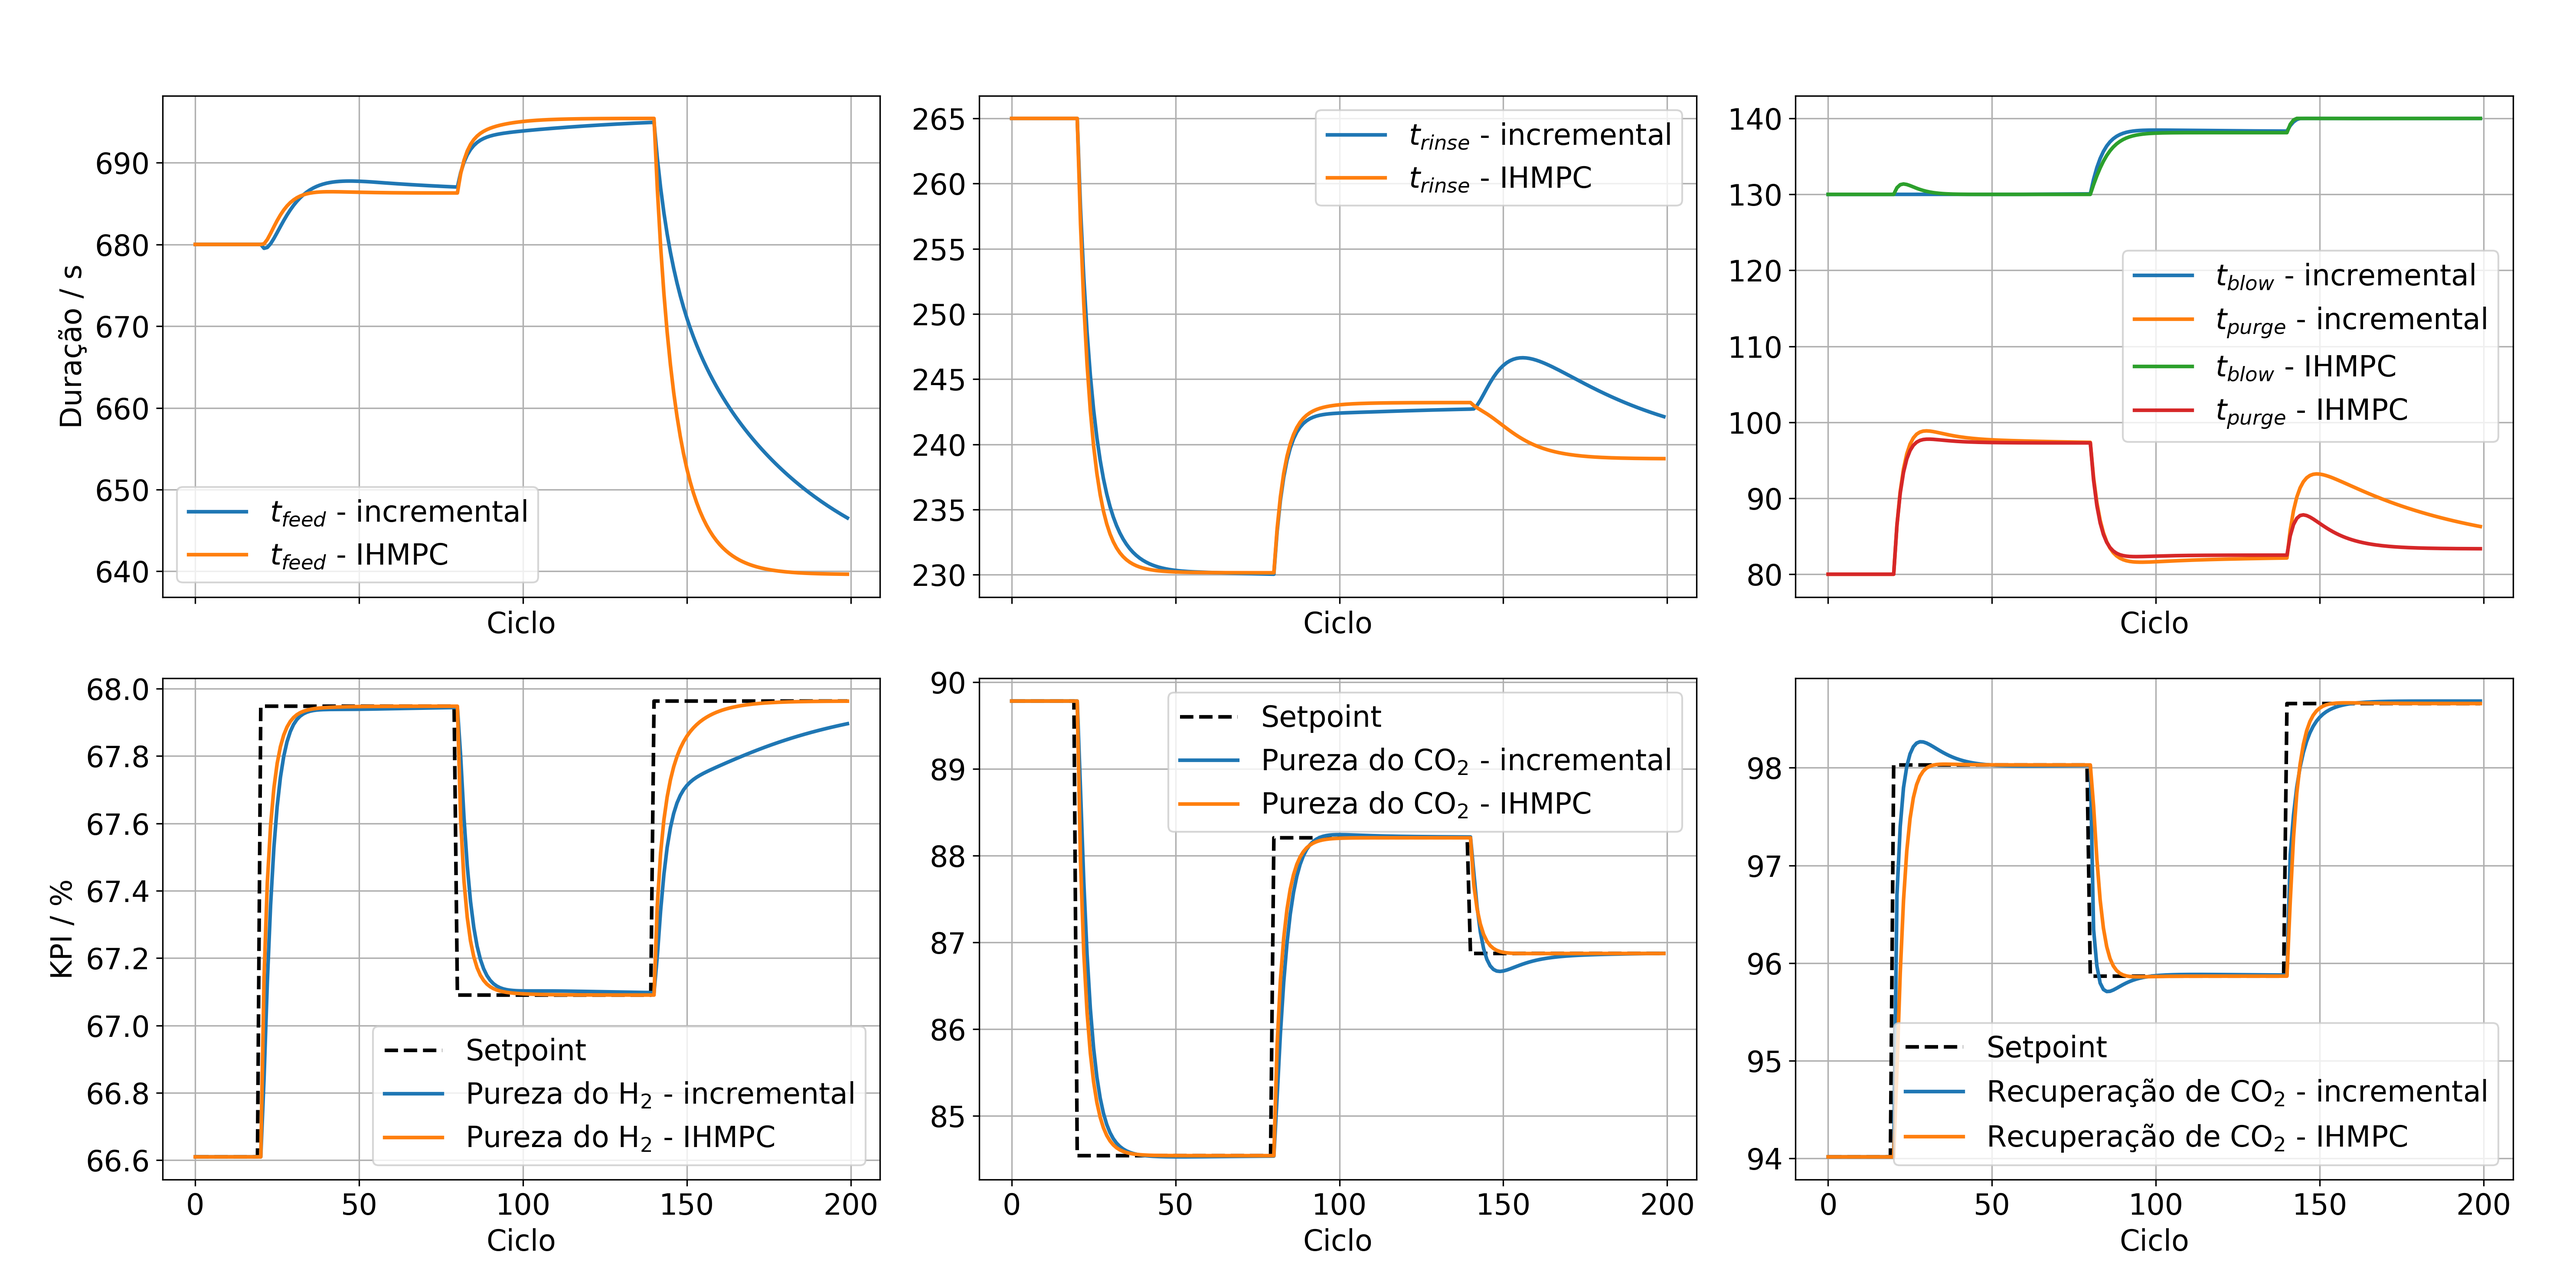
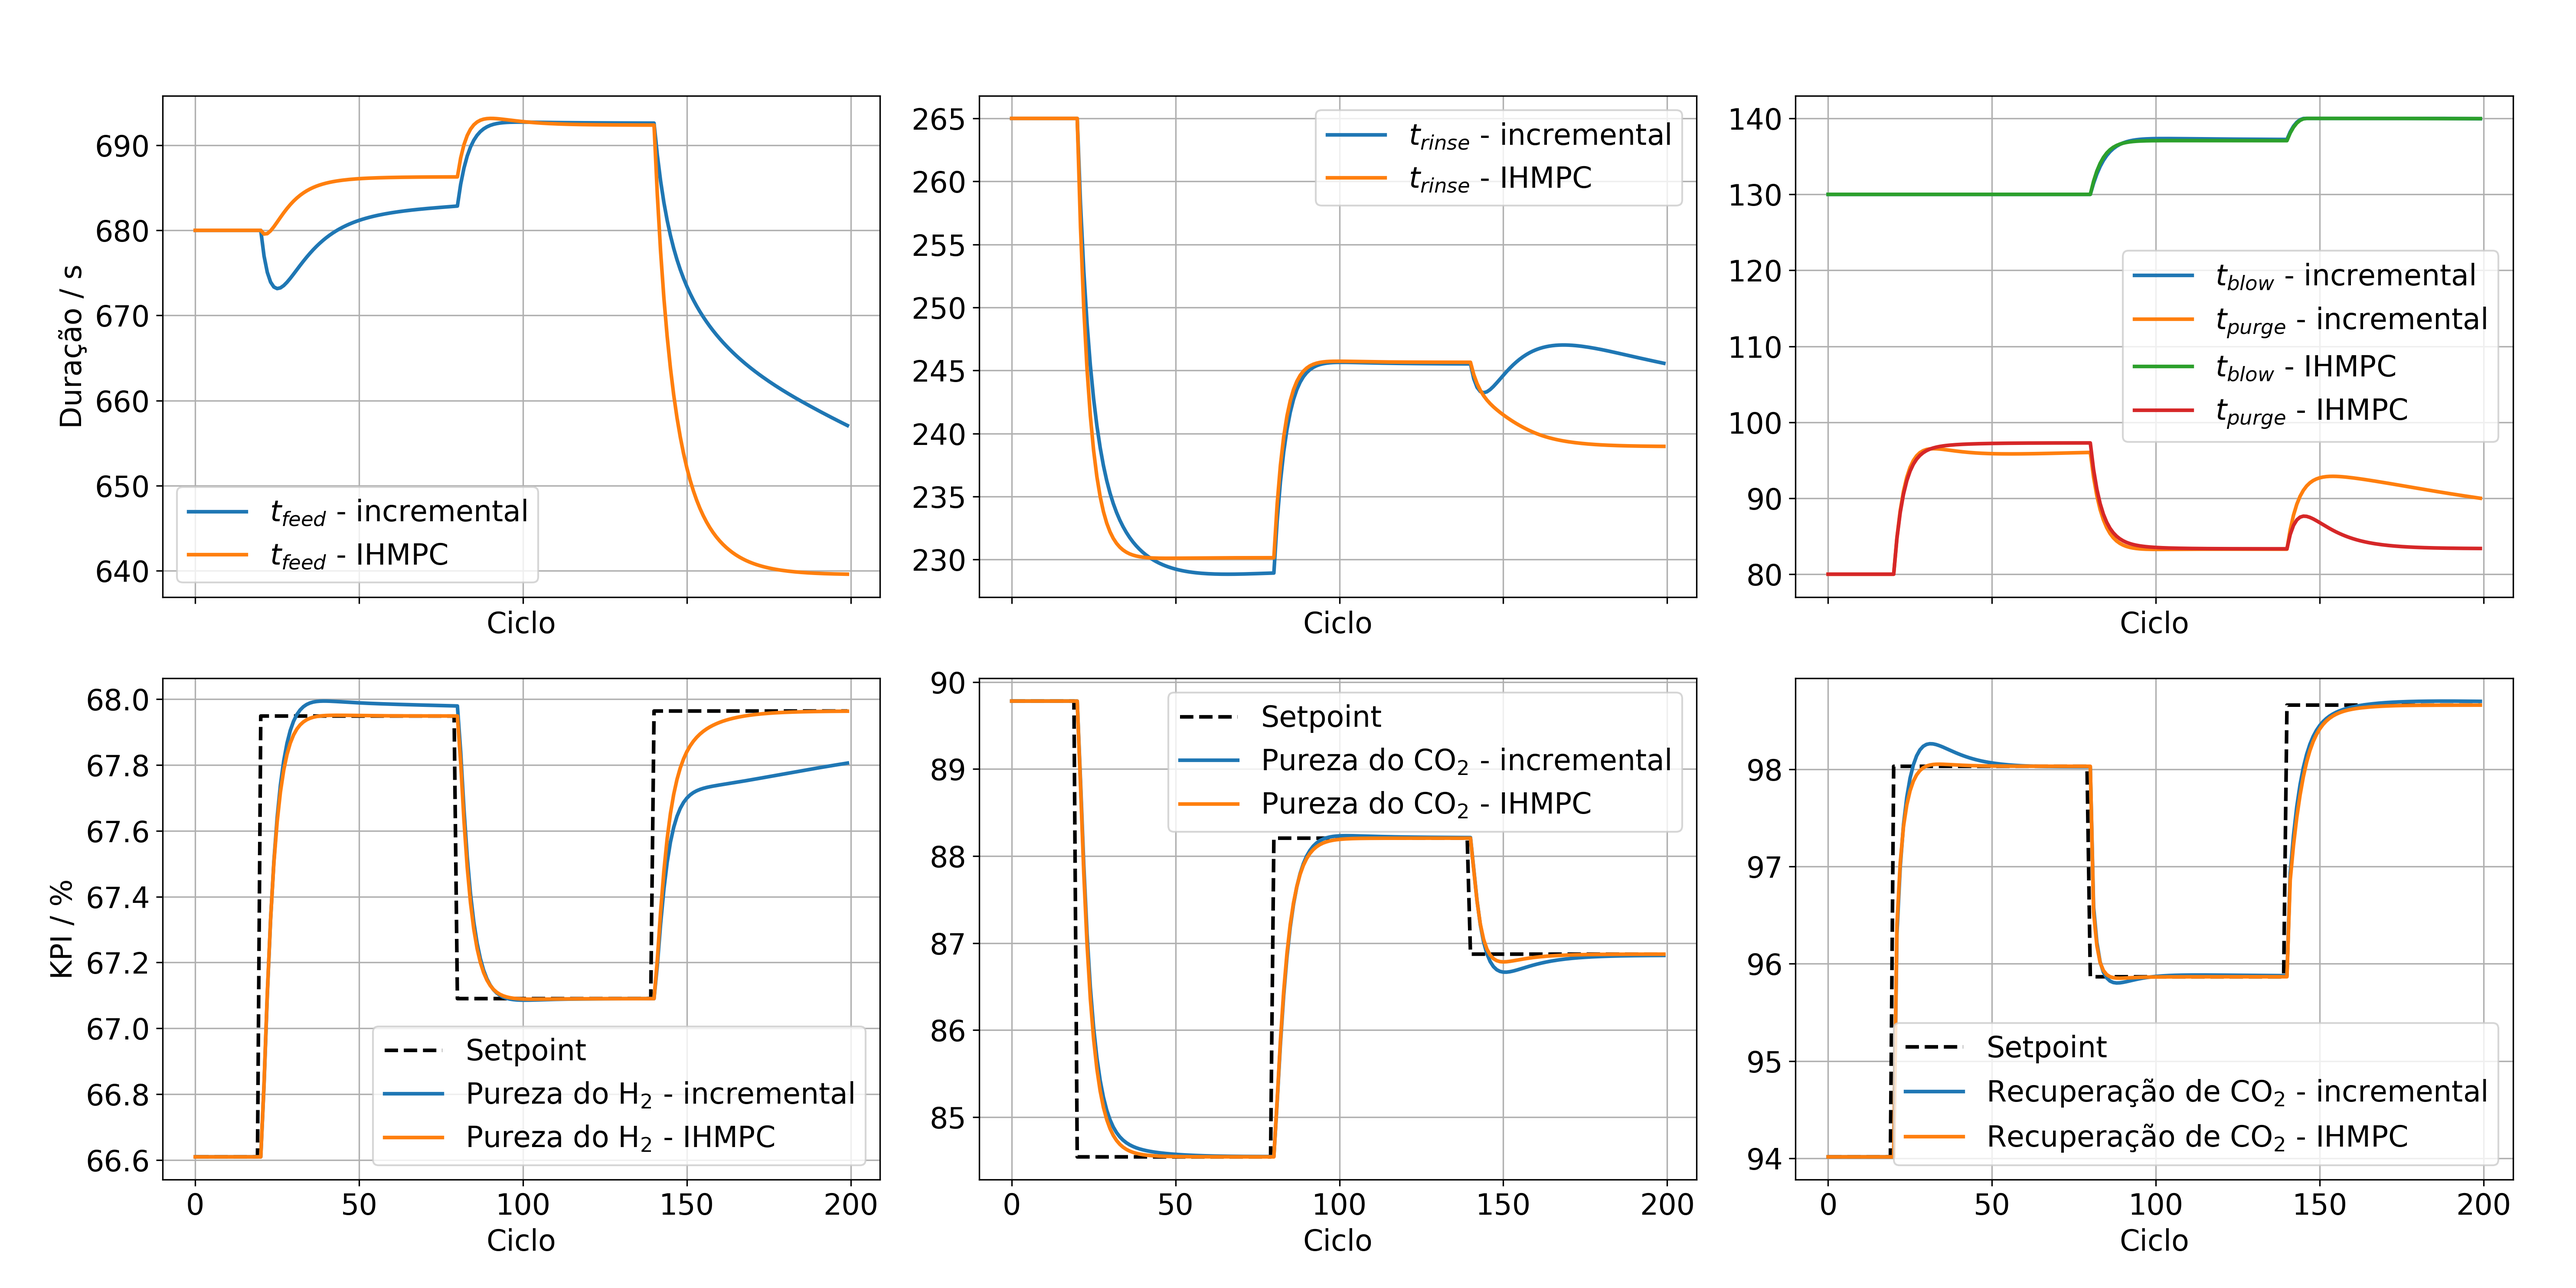
Fix OPOM formulation

diff --git a/src/MATLAB/IHMPC/opom.m b/src/MATLAB/IHMPC/opom.m
@@ -1,84 +1,62 @@
-function [A,B,C,d0,Dd,F,Psi,N] = opom(Gz)
-
-% Gz: matriz de fun��es de transfer�ncia discretas (tf)
-% Assume sistema est�vel
-
-[ny,nu] = size(Gz);
-
-% n�mero m�ximo de polos por canal
-m = zeros(ny,nu);
-for i = 1:ny
-    for j = 1:nu
-        polos = pole(Gz(i,j));
-        m(i,j) = length(polos);
+function [A,B,C,d0,Dd,F,psi,N]=opom(g,Ts)
+s=tf('s');
+[ny,nu]=size(g);
+for i=1:ny
+    for j=1:nu
+        polos=pole(g(i,j));
+        l=length(polos);
+        m(i,j)=l;
     end
 end
-na = max(m(:));   % n�mero m�ximo de polos
+na=max(max(m)); % maximum order of stable poles
+h =  g/s; % transfer function after of step application
 
-% inicializa��es
-d0 = zeros(ny,nu);
-
-for i = 1:ny
-    for j = 1:nu
-
-        [num,den] = tfdata(Gz(i,j),'v');
-
-        if all(num == 0)
-            d = 0;
-            r = 0;
+for i=1:ny
+    for j=1:nu
+        [num,den]=tfdata(h(i,j),'v');
+        if num==0
+            d=0; r=0;
         else
-            [d,r] = residue(num,den);
+            [d,r]=residue(num,den);
         end
-
-        % termo direto (ganho est�tico)
-        d0(i,j) = dcgain(Gz(i,j));
-
-        % res�duos din�micos
-        ddaux = d(1:end-1);
-        ddaux = [ddaux; zeros(na - length(ddaux),1)];
-        dd(:,j) = ddaux;
-
-        % polos discretos
-        faux = r(1:end-1);
-        faux = [faux; zeros(na - length(faux),1)];
-        f(:,j) = faux;
+        % matrix D0
+        d0(i,j)=d(end);
+        % matrix Dd
+        l=length(d);
+        ddaux=d(1:l-1);
+        ddaux=[ddaux;zeros(na-numel(ddaux),1)];
+        dd(:,j)=ddaux;
+        % matrix F
+        n=length(r);
+        daux=r(1:n-1);
+        faux=exp(daux*Ts);
+        faux=[faux;zeros(na-numel(faux),1)];
+        f(:,j)=faux;
     end
-
-    Dd(:,:,i) = dd;
-    F(:,:,i)  = f;
+    Dd(:,:,i)=dd;
+    F(:,:,i) =f ;
 end
 
-% empilhamento diagonal
-Dd = diag(Dd(:));
-F  = diag(F(:));
+Ddd=Dd(:);Dd=diag(Ddd);
+Fd=F(:); F=diag(Fd);
 
-% matriz J
-J = [];
-for i = 1:nu
-    aux = [zeros(na,i-1) ones(na,1) zeros(na,nu-i)];
-    J = [J; aux];
+J=[];
+for i=1:nu
+    aux=[zeros(na,i-1) ones(na,1) zeros(na,(nu-i))];
+    J=[J;aux];
 end
 
-% matrizes N e Psi
-Psi = [];
-N   = [];
-phi = ones(1,nu*na);
-
-for i = 1:ny
-    N = [N; J];
-    aux = [zeros(1,(i-1)*na*nu) phi zeros(1,(ny-i)*na*nu)];
-    Psi = [Psi; aux];
+clear aux;
+phi=ones(1,nu*na);
+N=[];
+psi=[];
+for i=1:ny
+    N=[N;J];
+    aux=[zeros(1,(i-1)*na*nu) phi zeros(1,(ny-i)*na*nu)];
+    psi=[psi;aux];
 end
-
-nd = na*nu*ny;
-
-% modelo OPOM
-A = [ eye(ny)        zeros(ny,nd)
-    zeros(nd,ny)  F ];
-
-B = [ d0
-    Dd*F*N ];
-
-C = [ eye(ny)  Psi ];
-
-end
+nd=na*nu*ny;
+A=[eye(ny) zeros(ny,nd)
+   zeros(nd,ny) F];
+B = [d0 ; Dd*F*N];
+C = [eye(ny) psi];

diff --git a/src/MATLAB/IHMPC/ihmpc_slack.m b/src/MATLAB/IHMPC/ihmpc_slack.m
@@ -25,10 +25,10 @@ Ctil = eye(3);
 Dtil = zeros(size(Ctil,1), size(Btil,2));
 
 sysd = ss(Atil, Btil, Ctil, Dtil, Ts);
-Gz = tf(sysd);
+Gs = d2c(tf(sysd));
 
-
-[A,B,C,D0,Dd,F,Psi,N]=opom(Gz); % it creates opom model
+%%
+[A,B,C,D0,Dd,F,Psi,N]=opom(Gs,Ts); % it creates opom model
 Ap=A*1.00; Bp=B*1.05; Cp=C;
 ny = size(C,1); % output variables of the system
 nu = size(B,2); % input variables of the system
@@ -42,7 +42,7 @@ nsim = 200;      % simulation time
 m = 5;           % control horizon
 qy = [1 1 1];      % output weights
 qu = [];      % output weights
-r  = [0.2 0.5 0.5 0.5]; % move weights
+r  = [0.2 0.5 0.5 1.0]; % move weights
 
 umax=[715 265 140 115]' - u_ref; % maximum value for inputs
 umin=[600 187 130 80]' - u_ref; % minimum value for inputs
@@ -100,6 +100,7 @@ end
 % creating the H matrix of QP
 H = [(Dm0+Fu)'*Qybar*(Dm0+Fu)+Futil'*Qbar*Futil+Rbar -(Dm0+Fu)'*Qybar*Ibar
     -Ibar'*Qybar*(Dm0+Fu)                           Ibar'*Qybar*Ibar+S];
+H = real(H);
 
 % defining the initial conditions
 % =========================================================================
@@ -129,6 +130,7 @@ for in=1:nsim
     cf = [(Ibar*xmk(1:ny)+Fx*xmk(ny+1:end)-Ibar*ysp)'*Qybar*Dm0+...
         (Ibar*xmk(1:ny)+Fx*xmk(ny+1:end)-Ibar*ysp)'*Qybar*Fu+(F^m*xmk(ny+1:end))'*Qbar*Futil ...
         (Ibar*ysp-Fx*xmk(ny+1:end)-Ibar*xmk(1:ny))'*Qybar*Ibar];
+    cf = real(cf);
     c = (Ibar*xmk(1:ny)+Fx*xmk(ny+1:end)-Ibar*ysp)'*Qybar*(Ibar*xmk(1:ny)+Fx*xmk(ny+1:end)-Ibar*ysp)+...
         (F^m*xmk(ny+1:end))'*Qbar*(F^m*xmk(ny+1:end));
 
@@ -163,7 +165,7 @@ for in=1:nsim
     % ymk=C*xmk;
     yspp=[yspp ysp];
 end
-
+%%
 nc=size(yr,1);
 figure(1)
 for j=1:nc
@@ -189,7 +191,7 @@ for j=1:nc
 end
 
 figure(3)
-plot(Jk)
+plot(real(Jk))
 xlabel('tempo nT')
 ylabel('Cost function')
 

diff --git a/src/MATLAB/incremental/sim_issmpc.m b/src/MATLAB/incremental/sim_issmpc.m
@@ -33,11 +33,11 @@ Ap=A*1.00; Bp=B*1.05; Cp=C; % defining plant model
 nx=size(A,1); % Number of system states
 
 % tuning parameters of MPC
-p=120       ; % Output prediction horizon
+p=50       ; % Output prediction horizon
 m=5         ; % Input horizon
 nsim=200    ; % Simulation time in sampling periods
 q=[1,1,1]   ; % Output weights
-r=[0.2 0.5 0.5 0.5] ; % Input moves weights
+r=[0.2 0.5 0.5 1.0]; % Input moves weights
 
 umax=[715 265 140 115]' - u_ref; % maximum value for inputs
 umin=[600 187 130 80]' - u_ref; % minimum value for inputs
